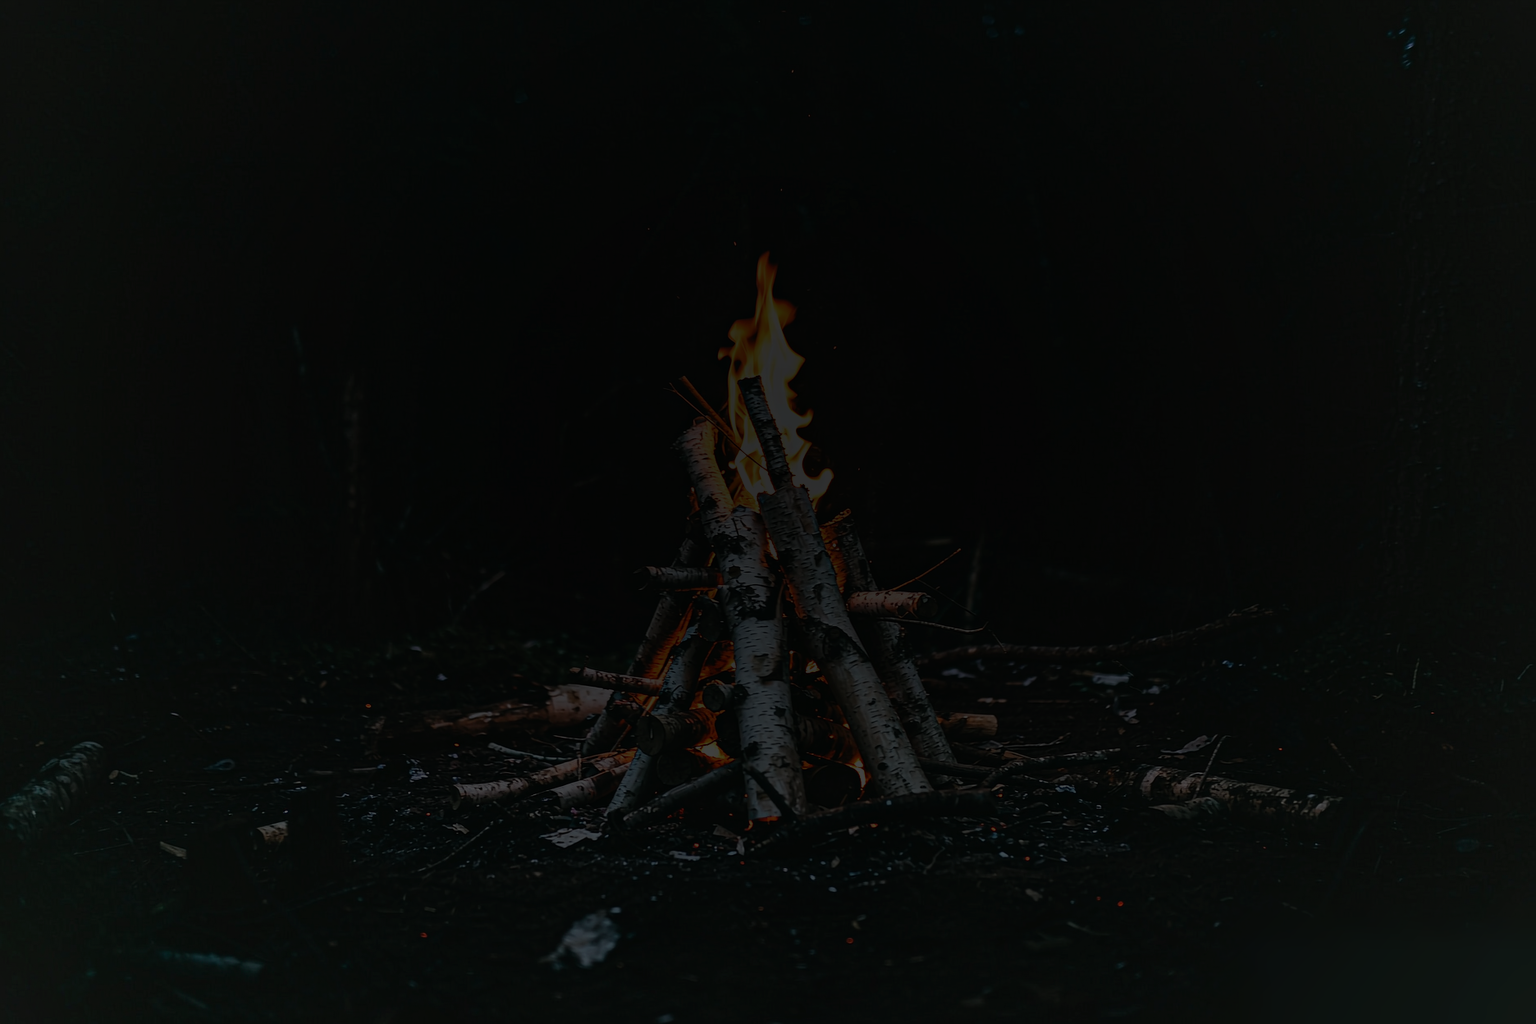
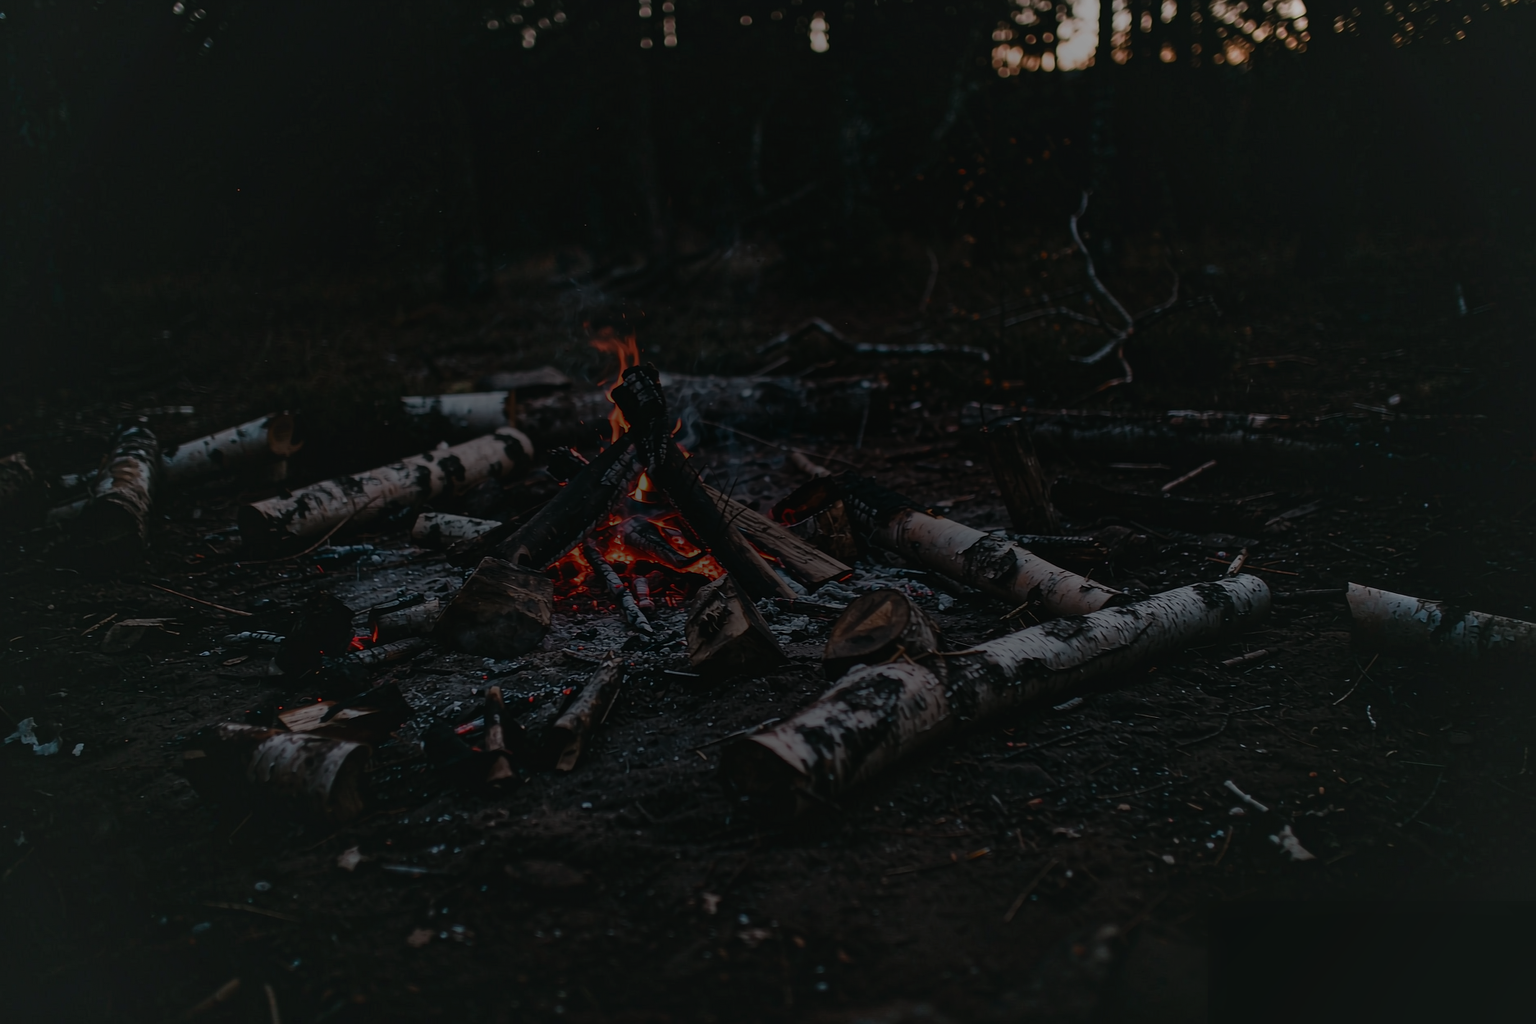
fix(assets): 篝火 v3 底图 + 暗纱适配 + 场景主题色微调

diff --git a/examples/pomodoro/scenes.rs b/examples/pomodoro/scenes.rs
@@ -17,8 +17,8 @@ pub const SCENES: [SceneSpec; 6] = [
             text_secondary: Color::from_srgb8(195, 180, 165),
             surface: Color::rgba(0.0, 0.0, 0.0, 0.25),
             surface_input: Color::rgba(0.0, 0.0, 0.0, 0.38),
-            backdrop_light: Color::from_srgb8(48, 49, 49),
-            backdrop_dark: Color::from_srgb8(2, 1, 1),
+            backdrop_light: Color::from_srgb8(90, 95, 99),
+            backdrop_dark: Color::from_srgb8(4, 6, 5),
         },
     },
     SceneSpec {
@@ -59,8 +59,8 @@ pub const SCENES: [SceneSpec; 6] = [
             text_secondary: Color::from_srgb8(205, 198, 218),
             surface: Color::rgba(0.0, 0.0, 0.0, 0.25),
             surface_input: Color::rgba(0.0, 0.0, 0.0, 0.38),
-            backdrop_light: Color::from_srgb8(93, 57, 71),
-            backdrop_dark: Color::from_srgb8(8, 15, 27),
+            backdrop_light: Color::from_srgb8(56, 36, 51),
+            backdrop_dark: Color::from_srgb8(11, 14, 29),
         },
     },
     SceneSpec {
@@ -73,8 +73,8 @@ pub const SCENES: [SceneSpec; 6] = [
             text_secondary: Color::from_srgb8(186, 201, 187),
             surface: Color::rgba(0.0, 0.0, 0.0, 0.25),
             surface_input: Color::rgba(0.0, 0.0, 0.0, 0.38),
-            backdrop_light: Color::from_srgb8(66, 78, 73),
-            backdrop_dark: Color::from_srgb8(6, 15, 10),
+            backdrop_light: Color::from_srgb8(49, 57, 51),
+            backdrop_dark: Color::from_srgb8(9, 15, 11),
         },
     },
     SceneSpec {

diff --git a/tools/export-scenes.py b/tools/export-scenes.py
@@ -550,11 +550,11 @@ SCENES = [
     {
         "key": "bonfire",
         "name": "篝火",
-        # AI 生成底图 (元宝, 2026-08-04 v2): 写实篝火 + 白桦木 teepee。
-        # 小火堆居中, 四周留暗保对比度。
+        # AI 生成底图 (元宝, 2026-08-04 v3): 写实余烬 + 白桦木堆, 无明火。
+        # 火堆居中 (y≈0.50), 四周留暗保对比度。
         "ai_base": "bonfire.png",
-        # 暗纱: 适度压暗, 保留篝火细节。
-        "veil": {"color": (0, 0, 0), "center": (0.5, 0.45), "radius": 0.65, "peak": 65},
+        # 暗纱: 轻度压暗, 保留余烬细节; 火焰极值由火焰本身提供, 不需过度压制。
+        "veil": {"color": (0, 0, 0), "center": (0.5, 0.48), "radius": 0.55, "peak": 45},
         "palette": {
             "base": (26, 15, 10),
             "accent": (255, 159, 67),

diff --git a/tools/remove_watermark.py b/tools/remove_watermark.py
@@ -60,10 +60,10 @@ def main():
     print(f"山: {w}x{h} -> 1536x1024")
 
     # 火: bottom-right "元宝 AI生成"
-    bonfire = Image.open(ASSETS_DIR / "bonfire_ai_2.png")
+    bonfire = Image.open(ASSETS_DIR / "bonfire_ai_3.png")
     w2, h2 = bonfire.size
     bonfire_clean = inpaint(bonfire, [
-        (w2-300, h2-100, w2, h2),  # bottom-right
+        (w2-450, h2-180, w2, h2),  # bottom-right (扩大区域)
     ])
     bonfire_clean = bonfire_clean.resize((1536, 1024), Image.LANCZOS)
     bonfire_clean.save(ASSETS_DIR / "bonfire_ai_clean.png", "PNG", optimize=True)
